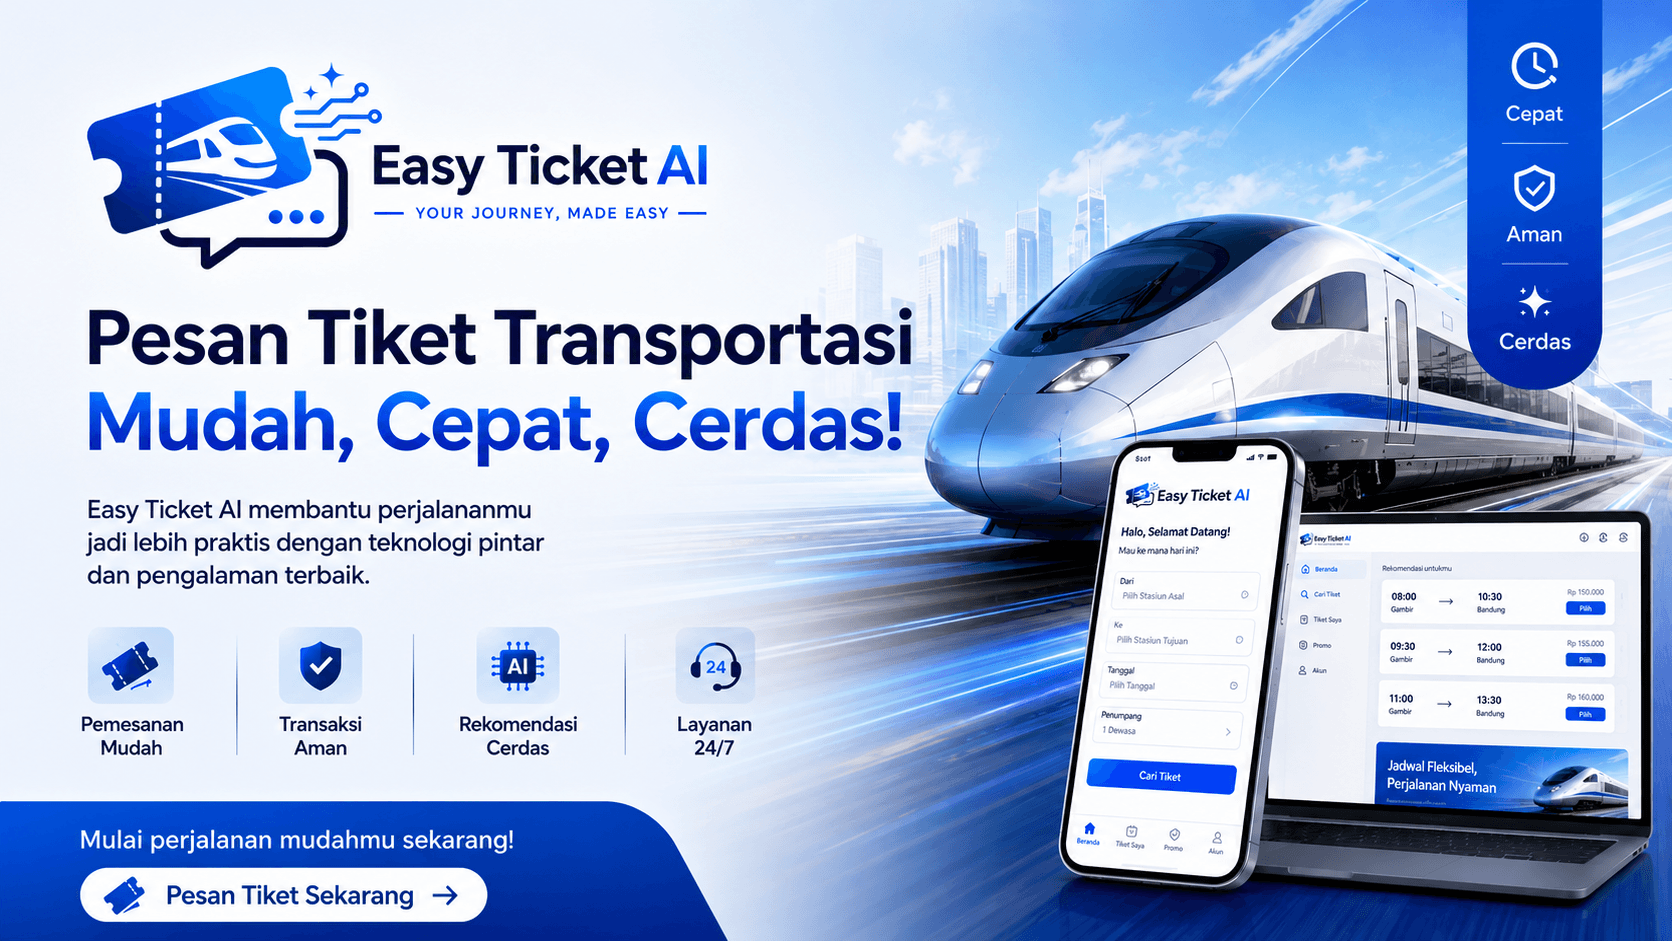
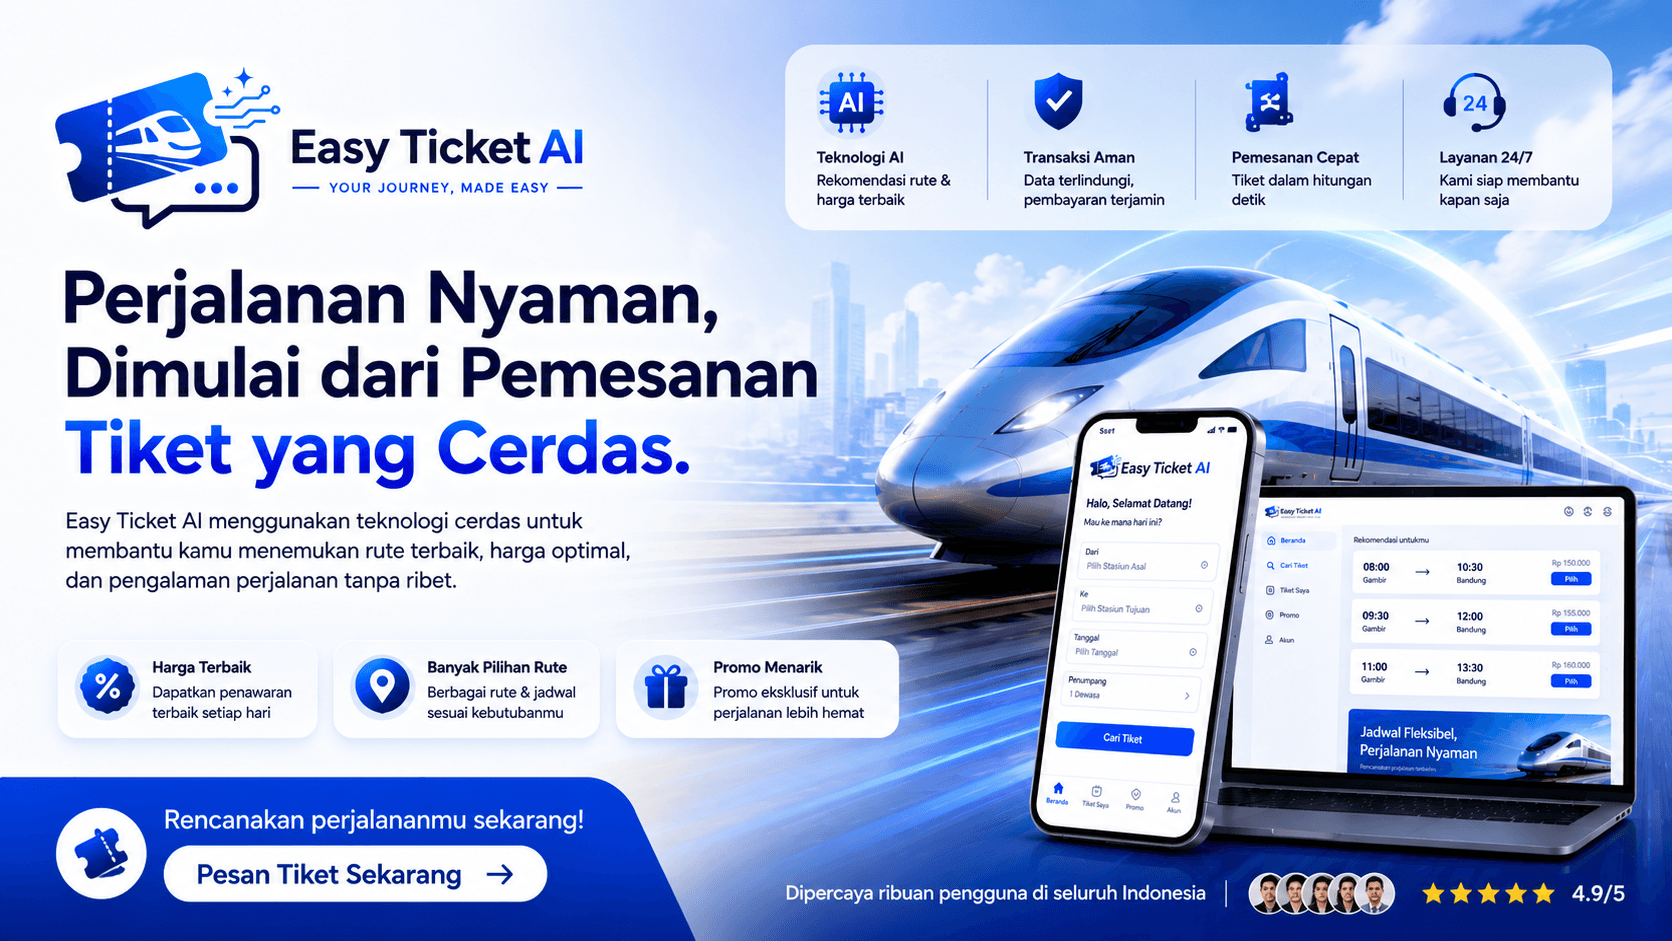
Feat(Landing Page): Misc Improvement

diff --git a/resources/views/landing/index.blade.php b/resources/views/landing/index.blade.php
@@ -8,7 +8,27 @@
   .hero-section {
     background-color: #ffffff;
     position: relative;
-    overflow: hidden;
+    height: 580px;
+  }
+  .hero-banner-img {
+    width: 100%;
+    height: 100%;
+    object-fit: cover;
+    object-position: center;
+    display: block;
+  }
+  @media (max-width: 991.98px) {
+    .hero-section {
+      height: 400px;
+    }
+  }
+  @media (max-width: 767.98px) {
+    .hero-section {
+      height: auto;
+    }
+    .hero-banner-img {
+      height: auto;
+    }
   }
   .search-card {
     position: relative;
@@ -17,7 +37,24 @@
     border-radius: 16px;
     box-shadow: 0 20px 25px -5px rgba(0,0,0,0.08), 0 10px 10px -5px rgba(0,0,0,0.03);
     background-color: #ffffff;
+    padding: 24px !important;
   }
+  @media (min-width: 768px) {
+    .search-card-wrapper {
+      position: absolute;
+      bottom: 40px;
+      left: 0;
+      right: 0;
+      z-index: 10;
+    }
+    .search-card {
+      padding: 32px !important;
+      border-radius: 20px !important;
+      box-shadow: 0 20px 40px rgba(0,0,0,0.15) !important;
+    }
+  }
+
+
   .schedule-card {
     transition: transform 0.2s, box-shadow 0.2s;
     border-radius: 12px;
@@ -68,18 +105,67 @@
     padding: 2px 12px;
     font-size: 0.8rem;
   }
+  .flatpickr-calendar {
+    border: 1px solid #e2e8f0 !important;
+    box-shadow: 0 10px 15px -3px rgba(0,0,0,0.05), 0 4px 6px -2px rgba(0,0,0,0.02) !important;
+    border-radius: 12px !important;
+    background: #ffffff !important;
+    font-family: inherit !important;
+    padding: 8px !important;
+  }
+  .flatpickr-day.selected, 
+  .flatpickr-day.startRange, 
+  .flatpickr-day.endRange, 
+  .flatpickr-day.selected.inRange, 
+  .flatpickr-day.startRange.inRange, 
+  .flatpickr-day.endRange.inRange, 
+  .flatpickr-day.selected:focus, 
+  .flatpickr-day.startRange:focus, 
+  .flatpickr-day.endRange:focus, 
+  .flatpickr-day.selected:hover, 
+  .flatpickr-day.startRange:hover, 
+  .flatpickr-day.endRange:hover, 
+  .flatpickr-day.prevMonthDay.selected, 
+  .flatpickr-day.nextMonthDay.selected {
+    background: #0d6efd !important;
+    border-color: #0d6efd !important;
+    color: #ffffff !important;
+    border-radius: 8px !important;
+  }
+  .flatpickr-day:hover {
+    background: #e3f2fd !important;
+    border-color: transparent !important;
+    color: #0d6efd !important;
+    border-radius: 8px !important;
+  }
+  .flatpickr-months .flatpickr-month {
+    background: #ffffff !important;
+    color: #0f172a !important;
+  }
+  .flatpickr-current-month .flatpickr-monthDropdown-months {
+    font-weight: 600 !important;
+  }
+  .flatpickr-weekday {
+    color: #64748b !important;
+    font-weight: 500 !important;
+  }
+  .flatpickr-day.today {
+    border-color: #0d6efd !important;
+    color: #0d6efd !important;
+    border-radius: 8px !important;
+  }
 </style>
 @endpush
 
 @section('content')
-<div class="hero-section py-5">
-  <div class="container">
-    <div class="row align-items-center g-4">
-      <div class="col-lg-5 order-2 order-lg-1">
-        <div class="card search-card p-4">
-          <h4 class="fw-bold mb-3 text-primary"><i class="bi bi-search me-2"></i>Cari Tiket Kereta</h4>
-          <form method="GET" action="{{ route('landing') }}" id="search-form">
-            <div class="mb-3">
+<div class="hero-section">
+  <img src="{{ asset('images/banner/banner-4.png') }}" class="hero-banner-img" alt="Easy Ticket AI Banner">
+  <div class="search-card-wrapper">
+    <div class="container" style="max-width: 1140px;">
+      <div class="card search-card p-4">
+        <form method="GET" action="{{ route('landing') }}" id="search-form">
+          <div class="row g-3 align-items-end">
+            <div class="col-md-3">
               <label class="form-label fw-semibold small">Stasiun Asal</label>
               <select name="origin_station_id" id="origin_station_id" class="form-select select2" required>
                 <option value="">Pilih Stasiun Asal</option>
@@ -88,7 +174,7 @@
                 @endforeach
               </select>
             </div>
-            <div class="mb-3">
+            <div class="col-md-3">
               <label class="form-label fw-semibold small">Stasiun Tujuan</label>
               <select name="destination_station_id" id="destination_station_id" class="form-select select2" required>
                 <option value="">Pilih Stasiun Tujuan</option>
@@ -97,16 +183,15 @@
                 @endforeach
               </select>
             </div>
-            <div class="mb-4">
+            <div class="col-md-3">
               <label class="form-label fw-semibold small">Tanggal Keberangkatan</label>
-              <input type="date" name="departure_date" class="form-control" value="{{ $departureDate ?? '' }}" min="{{ date('Y-m-d') }}" required>
+              <input type="text" name="departure_date" id="departure_date" class="form-control bg-white" value="{{ $departureDate ?? '' }}" placeholder="Pilih Tanggal" required readonly style="background-color: #ffffff !important;">
             </div>
-            <button type="submit" class="btn btn-primary w-100 py-2"><i class="bi bi-search me-2"></i>Cari Jadwal</button>
-          </form>
-        </div>
-      </div>
-      <div class="col-lg-7 order-1 order-lg-2">
-        <img src="{{ asset('images/banner/banner-1.png') }}" class="w-100 h-auto d-block rounded-4 shadow-sm" alt="Easy Ticket AI Banner">
+            <div class="col-md-3">
+              <button type="submit" class="btn btn-primary w-100 py-2"><i class="bi bi-search me-2"></i>Cari</button>
+            </div>
+          </div>
+        </form>
       </div>
     </div>
   </div>
@@ -163,6 +248,90 @@
     <i class="bi bi-search text-secondary" style="font-size: 3rem;"></i>
     <h5 class="mt-3 text-secondary">Tidak ada jadwal tersedia</h5>
     <p class="text-secondary">Coba cari dengan stasiun atau tanggal lain.</p>
+  </div>
+  @else
+  <div class="my-5">
+    <h4 class="fw-bold mb-4"><i class="bi bi-star-fill text-warning me-2"></i>Rute Favorit</h4>
+    <div class="row g-4">
+      <div class="col-md-4">
+        <div class="card border shadow-sm h-100">
+          <div class="card-body">
+            <span class="badge bg-primary-subtle text-primary mb-2">Terpopuler</span>
+            <h5 class="fw-bold mb-1">Jakarta &rarr; Bandung</h5>
+            <p class="text-secondary small mb-3">Mulai dari Rp 150.000</p>
+            <button type="button" class="btn btn-outline-primary btn-sm w-100" onclick="document.getElementById('origin_station_id').value='1'; document.getElementById('destination_station_id').value='2'; $('#origin_station_id, #destination_station_id').trigger('change');">Cari Jadwal</button>
+          </div>
+        </div>
+      </div>
+      <div class="col-md-4">
+        <div class="card border shadow-sm h-100">
+          <div class="card-body">
+            <span class="badge bg-success-subtle text-success mb-2">Paling Nyaman</span>
+            <h5 class="fw-bold mb-1">Bandung &rarr; Surabaya</h5>
+            <p class="text-secondary small mb-3">Mulai dari Rp 320.000</p>
+            <button type="button" class="btn btn-outline-primary btn-sm w-100" onclick="document.getElementById('origin_station_id').value='2'; document.getElementById('destination_station_id').value='3'; $('#origin_station_id, #destination_station_id').trigger('change');">Cari Jadwal</button>
+          </div>
+        </div>
+      </div>
+      <div class="col-md-4">
+        <div class="card border shadow-sm h-100">
+          <div class="card-body">
+            <span class="badge bg-warning-subtle text-warning mb-2">Pemandangan Indah</span>
+            <h5 class="fw-bold mb-1">Jakarta &rarr; Yogyakarta</h5>
+            <p class="text-secondary small mb-3">Mulai dari Rp 280.000</p>
+            <button type="button" class="btn btn-outline-primary btn-sm w-100" onclick="document.getElementById('origin_station_id').value='1'; document.getElementById('destination_station_id').value='4'; $('#origin_station_id, #destination_station_id').trigger('change');">Cari Jadwal</button>
+          </div>
+        </div>
+      </div>
+    </div>
+  </div>
+
+  <div class="my-5">
+    <h4 class="fw-bold mb-4"><i class="bi bi-newspaper text-primary me-2"></i>Berita & Promo Terbaru</h4>
+    <div class="row g-4">
+      <div class="col-md-4">
+        <div class="card border shadow-sm h-100">
+          <div class="card-body p-0">
+            <div class="bg-primary text-white p-4 text-center rounded-top" style="height: 120px; display: flex; align-items: center; justify-content: center;">
+              <i class="bi bi-percent fs-1"></i>
+            </div>
+            <div class="p-3">
+              <span class="text-primary fw-semibold small">PROMO</span>
+              <h6 class="fw-bold mt-1 mb-2">Promo Liburan Akhir Pekan: Diskon Tiket Hingga 20%</h6>
+              <p class="text-secondary small mb-0">Nikmati diskon khusus untuk keberangkatan hari Sabtu & Minggu selama bulan Juli.</p>
+            </div>
+          </div>
+        </div>
+      </div>
+      <div class="col-md-4">
+        <div class="card border shadow-sm h-100">
+          <div class="card-body p-0">
+            <div class="bg-success text-white p-4 text-center rounded-top" style="height: 120px; display: flex; align-items: center; justify-content: center;">
+              <i class="bi bi-wallet2 fs-1"></i>
+            </div>
+            <div class="p-3">
+              <span class="text-success fw-semibold small">PENGUMUMAN</span>
+              <h6 class="fw-bold mt-1 mb-2">Integrasi Pembayaran E-Wallet Baru Kini Aktif</h6>
+              <p class="text-secondary small mb-0">Pemesanan tiket kereta api kini lebih mudah dengan pembayaran instan via dompet digital.</p>
+            </div>
+          </div>
+        </div>
+      </div>
+      <div class="col-md-4">
+        <div class="card border shadow-sm h-100">
+          <div class="card-body p-0">
+            <div class="bg-info text-white p-4 text-center rounded-top" style="height: 120px; display: flex; align-items: center; justify-content: center;">
+              <i class="bi bi-lightbulb fs-1"></i>
+            </div>
+            <div class="p-3">
+              <span class="text-info fw-semibold small">TIPS PERJALANAN</span>
+              <h6 class="fw-bold mt-1 mb-2">Tips Perjalanan Aman & Nyaman dengan Kereta Cepat</h6>
+              <p class="text-secondary small mb-0">Beberapa persiapan penting sebelum bepergian untuk menghindari antrean stasiun.</p>
+            </div>
+          </div>
+        </div>
+      </div>
+    </div>
   </div>
   @endif
 </div>
@@ -332,21 +501,41 @@
   $(document).ready(function() {
     $('.select2').select2({ theme: 'bootstrap-5', width: '100%' });
 
+    flatpickr("#departure_date", {
+      locale: "id",
+      minDate: "today",
+      altInput: true,
+      altFormat: "l, d F Y",
+      dateFormat: "Y-m-d",
+      disableMobile: true
+    });
+
     $('#destination_station_id').on('change', function() {
       var val = $(this).val();
-      $('#origin_station_id option').each(function() {
-        if ($(this).val() === val) {
-          $('#destination_station_id').val('').trigger('change');
-          Swal.fire({
-            icon: 'warning',
-            title: 'Perhatian',
-            text: 'Stasiun tujuan tidak boleh sama dengan stasiun asal.',
-            timer: 2000,
-            showConfirmButton: false
-          });
-          return false;
-        }
-      });
+      if (val && val === $('#origin_station_id').val()) {
+        $('#destination_station_id').val('').trigger('change');
+        Swal.fire({
+          icon: 'warning',
+          title: 'Perhatian',
+          text: 'Stasiun tujuan tidak boleh sama dengan stasiun asal.',
+          timer: 2000,
+          showConfirmButton: false
+        });
+      }
+    });
+
+    $('#origin_station_id').on('change', function() {
+      var val = $(this).val();
+      if (val && val === $('#destination_station_id').val()) {
+        $('#origin_station_id').val('').trigger('change');
+        Swal.fire({
+          icon: 'warning',
+          title: 'Perhatian',
+          text: 'Stasiun asal tidak boleh sama dengan stasiun tujuan.',
+          timer: 2000,
+          showConfirmButton: false
+        });
+      }
     });
 
     $(document).on('click', '.btn-book', function() {
@@ -425,6 +614,8 @@
     @if(session('success'))
     Swal.fire({ icon: 'success', title: 'Berhasil!', text: '{{ session('success') }}', timer: 3000, showConfirmButton: false });
     @endif
+
+
   });
 </script>
 @endpush

diff --git a/resources/views/layouts/landing.blade.php b/resources/views/layouts/landing.blade.php
@@ -13,10 +13,8 @@
     <link href="https://cdn.jsdelivr.net/npm/bootstrap-icons@1.13.1/font/bootstrap-icons.min.css" rel="stylesheet">
     <link href="https://cdn.jsdelivr.net/npm/select2@4.1.0-rc.0/dist/css/select2.min.css" rel="stylesheet">
     <link href="https://cdn.jsdelivr.net/npm/select2-bootstrap-5-theme@1.3.0/dist/select2-bootstrap-5-theme.min.css" rel="stylesheet">
+    <link href="https://cdn.jsdelivr.net/npm/flatpickr/dist/flatpickr.min.css" rel="stylesheet">
     <style>
-      body {
-        background-color: #f4f5f7;
-      }
       .custom-footer {
         background-color: #ffffff;
         color: #475569;
@@ -40,37 +38,35 @@
         border-color: #e2e8f0 !important;
         opacity: 1;
       }
+      .sticky-header {
+        position: sticky;
+        top: 0;
+        z-index: 1000;
+        background-color: rgba(255, 255, 255, 0.8);
+        backdrop-filter: blur(12px);
+        -webkit-backdrop-filter: blur(12px);
+        border-bottom: 1px solid rgba(226, 232, 240, 0.8);
+      }
     </style>
     @stack('styles')
   </head>
   <body>
-    <nav class="navbar navbar-expand-lg navbar-light bg-white sticky-top border-bottom py-2" style="box-shadow: 0 4px 20px -2px rgba(0, 0, 0, 0.05);">
-      <div class="container">
-        <a class="navbar-brand fw-bold text-primary fs-5" href="{{ route('landing') }}">
-          <i class="bi bi-train-front me-1"></i>Easy Ticket AI
+
+    <header class="sticky-header py-3">
+      <div class="container d-flex justify-content-between align-items-center">
+        <a href="{{ route('landing') }}" class="text-decoration-none d-flex align-items-center">
+          <span class="fs-5 fw-bold text-primary"><i class="bi bi-ticket-perforated-fill me-2"></i>Easy Ticket AI</span>
         </a>
-        <button class="navbar-toggler" type="button" data-bs-toggle="collapse" data-bs-target="#navbarNav">
-          <span class="navbar-toggler-icon"></span>
-        </button>
-        <div class="collapse navbar-collapse" id="navbarNav">
-          <ul class="navbar-nav ms-auto align-items-lg-center">
-            @auth
-              @if (auth()->user()->isAdmin())
-              <li class="nav-item">
-                <a class="nav-link fw-semibold text-secondary" href="{{ route('admin.dashboard') }}"><i class="bi bi-speedometer2 me-1"></i>Dashboard</a>
-              </li>
-              @endif
-              <li class="nav-item">
-                <a class="btn btn-outline-danger btn-sm ms-lg-2 px-3 rounded-pill" href="#" onclick="event.preventDefault(); document.getElementById('logout-form').submit();">
-                  <i class="bi bi-box-arrow-right me-1"></i>Logout
-                </a>
-                <form id="logout-form" action="{{ route('logout') }}" method="POST" class="d-none">@csrf</form>
-              </li>
-            @endauth
-          </ul>
+        <div>
+          @auth
+            <a href="{{ route('home') }}" class="btn btn-primary btn-sm rounded-pill px-3"><i class="bi bi-grid-1x2-fill me-1.5"></i>Dashboard</a>
+          @else
+            <a href="{{ route('login') }}" class="btn btn-outline-primary btn-sm rounded-pill px-3 me-2">Masuk</a>
+            <a href="{{ route('register') }}" class="btn btn-primary btn-sm rounded-pill px-3">Daftar</a>
+          @endauth
         </div>
       </div>
-    </nav>
+    </header>
 
     <main>
       @yield('content')
@@ -110,6 +106,8 @@
     <script src="https://cdn.jsdelivr.net/npm/bootstrap@5.3.7/dist/js/bootstrap.bundle.min.js"></script>
     <script src="https://cdn.jsdelivr.net/npm/select2@4.1.0-rc.0/dist/js/select2.min.js"></script>
     <script src="https://cdn.jsdelivr.net/npm/sweetalert2@11"></script>
+    <script src="https://cdn.jsdelivr.net/npm/flatpickr"></script>
+    <script src="https://npmcdn.com/flatpickr/dist/l10n/id.js"></script>
     @stack('scripts')
   </body>
 </html>